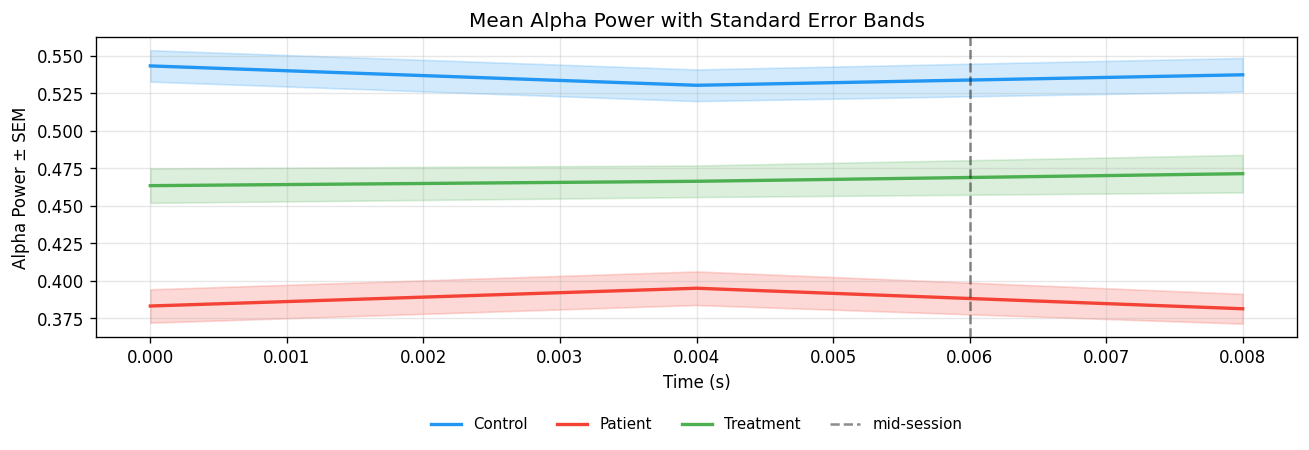
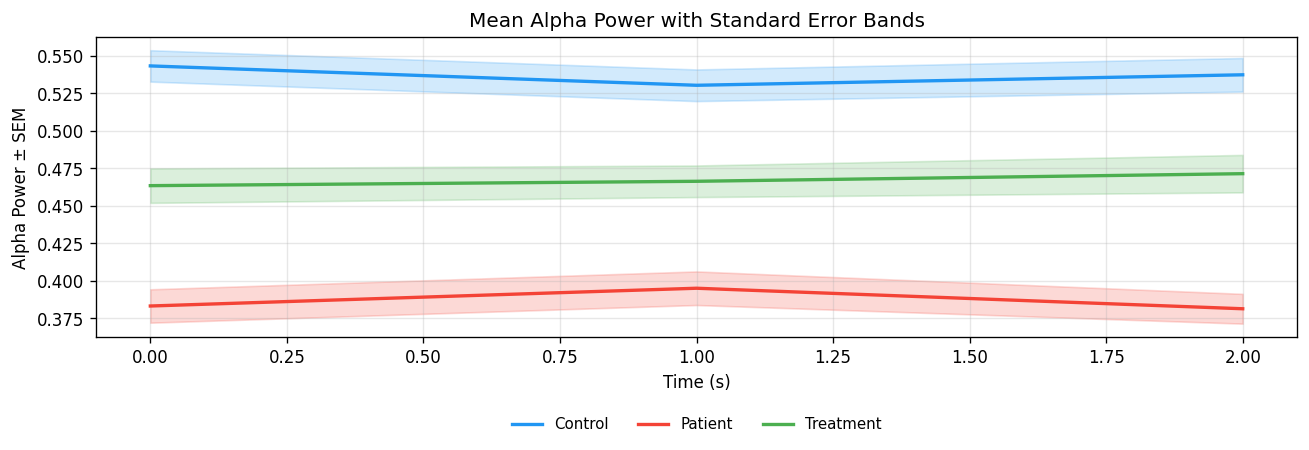
minor updates in the script

diff --git a/day_2/02_day2_study_guide.py b/day_2/02_day2_study_guide.py
@@ -1,11 +1,8 @@
 """
-================================================================================
-DAY 2 STUDY GUIDE  |  Python Basics: Plotting for Insights
-"Turning arrays of raw numbers into a visual story."
-================================================================================
+Python Basics: Plotting for Insights
+Turning arrays of raw numbers into a visual story
 
-Plots produced (saved to plots/)
-----------------------------------
+
   s01_single_timeseries.png       Line plot basics
   s02_multigroup_timeseries.png   Multiple lines on one axes
   s03_confidence_bands.png        fill_between for ±SEM bands
@@ -15,17 +12,14 @@ Plots produced (saved to plots/)
   s07_correlation_matrix.png      Annotated correlation matrix
   s08_publication_figure.png      Publication figure with MNE Delta Topomap
 
-Uses shared dataset from: ../day_1/data/
-Run : python 02_day2_study_guide.py
-================================================================================
 """
-
+# Load libraries
 import numpy as np
 import pickle, os
 import matplotlib
 matplotlib.use("Agg")               # non-interactive: saves files, no pop-up windows
 import matplotlib.pyplot as plt
-from matplotlib.colors import LinearSegmentedColormap, ListedColormap
+from matplotlib.colors import LinearSegmentedColormap
 import scipy.stats as stats
 import mne
 
@@ -44,23 +38,20 @@ EHINGER_COLORS = [
 cmap_becp = LinearSegmentedColormap.from_list("becp", EHINGER_COLORS, N=256)
 
 # Load data directly from day_1 shared data directory
-data_dir = os.path.join("..", "day_1", "data") if os.path.exists(os.path.join("..", "day_1", "data")) else "data"
-data = np.load(os.path.join(data_dir, "neural_data.npy"))
-with open(os.path.join(data_dir, "metadata.pkl"), "rb") as fh:
+data = np.load("neural_data.npy")
+with open("metadata.pkl", "rb") as fh:
     meta = pickle.load(fh)
 
 G, T, S, C, F = data.shape
 gnames  = meta["group_names"]
 fnames  = meta["feature_names"]
 chnames = meta["channel_names"]
-hz      = meta.get("sampling_hz", 250)
 
-t_axis  = np.arange(T) / hz        # time in seconds
 COLORS  = ["#2196F3", "#F44336", "#4CAF50"]   # blue · red · green
-DIV     = "─" * 60
+t_axis  = np.arange(T) 
 RNG     = np.random.default_rng(2026)
 
-# ── GLOBAL FIGURE CONFIGURATION DEFAULTS ─────────────────────────────────────
+# Style your plot theme
 def setup_publication_style():
     """
     Applies clean, publication-quality defaults across Matplotlib figures.
@@ -87,7 +78,7 @@ def setup_publication_style():
         "figure.titlesize"     : 14,                     # Main figure super-title font size
         "figure.titleweight"   : "bold",                 # Bold font weight for super-title
         "figure.dpi"           : 150,                    # Interactive display resolution (dots per inch)
-        "savefig.dpi"          : 150,                    # High-resolution export DPI for publication
+        "savefig.dpi"          : 300,                    # High-resolution export DPI for publication
         "savefig.bbox"         : "tight",                # Automatically strip white padding around figure
     })
 
@@ -100,15 +91,15 @@ def _mean_sem(g, fi):
     return mu, sem
 
 
-# ── SINGLE TIME-SERIES PLOTTING ───────────────────────────────────────────────
+# Single time series, weird x axis
 print("Single time-series  →  plots/s01_single_timeseries.png")
 
 fig, ax = plt.subplots(figsize=(10, 3.5))
 
 ts = data[0, :, 0, 9, 2]          # Control, subject 0, Cz, alpha
-ax.plot(t_axis, ts, color=COLORS[0], lw=1.5, label="Control · sub0 · Cz · alpha")
+ax.plot(ts, color=COLORS[0], lw=1.5, label="Control · sub0 · Cz · alpha")
 
-ax.set_xlabel("Time (s)", fontsize=11)
+ax.set_xlabel("Time ", fontsize=11)
 ax.set_ylabel("Power (μV²/Hz)", fontsize=11)
 ax.set_title("Alpha Power — Control Group, Subject 0, Channel Cz", fontsize=12)
 ax.legend()
@@ -116,8 +107,6 @@ ax.grid(True, alpha=0.3)
 fig.tight_layout()
 fig.savefig("plots/s01_single_timeseries.png", dpi=120)
 plt.close(fig)
-print("  Done.")
-
 
 # ── MULTI-GROUP TIME-SERIES OVERLAY ───────────────────────────────────────────
 print("Multi-group time-series  →  plots/s02_multigroup_timeseries.png")
@@ -125,7 +114,7 @@ print("Multi-group time-series  →  plots/s02_multigroup_timeseries.png")
 fig, ax = plt.subplots(figsize=(11, 4))
 for g in range(G):
     ts_g = data[g, :, :, :, 2].mean(axis=(1, 2))   # (T,)
-    ax.plot(t_axis, ts_g, color=COLORS[g], lw=2, label=gnames[g])
+    ax.plot(ts_g, color=COLORS[g], lw=2, label=gnames[g])
 
 ax.set_xlabel("Time (s)"); ax.set_ylabel("Mean Alpha Power")
 ax.set_title("Alpha Power Over Time — All Groups")
@@ -133,8 +122,6 @@ ax.legend(); ax.grid(True, alpha=0.3)
 fig.tight_layout()
 fig.savefig("plots/s02_multigroup_timeseries.png", dpi=120)
 plt.close(fig)
-print("  Done.")
-
 
 # ── CONFIDENCE BANDS (fill_between ±SEM) ─────────────────────────────────────
 print("Confidence bands  →  plots/s03_confidence_bands.png")
@@ -142,10 +129,9 @@ print("Confidence bands  →  plots/s03_confidence_bands.png")
 fig, ax = plt.subplots(figsize=(11, 4))
 for g in range(G):
     mu, sem = _mean_sem(g, fi=2)   # alpha feature
-    ax.plot(t_axis, mu, color=COLORS[g], lw=2, label=gnames[g])
+    ax.plot( mu, color=COLORS[g], lw=2, label=gnames[g])
     ax.fill_between(t_axis, mu - sem, mu + sem, color=COLORS[g], alpha=0.20)
 
-ax.axvline(x=T / (2*hz), ls="--", color="k", alpha=0.45, label="mid-session")
 ax.set_xlabel("Time (s)"); ax.set_ylabel("Alpha Power ± SEM")
 ax.set_title("Mean Alpha Power with Standard Error Bands")
 
@@ -155,8 +141,6 @@ ax.grid(True, alpha=0.3)
 fig.tight_layout()
 fig.savefig("plots/s03_confidence_bands.png", dpi=120, bbox_inches="tight")
 plt.close(fig)
-print("  Done.")
-
 
 # ── SUBPLOTS GRID ─────────────────────────────────────────────────────────────
 print("Subplots grid  →  plots/s04_subplots_2x3.png")
@@ -185,14 +169,12 @@ fig.suptitle("Feature Comparison: Control vs Patient", fontsize=13, fontweight="
 fig.tight_layout()
 fig.savefig("plots/s04_subplots_2x3.png", dpi=120, bbox_inches="tight")
 plt.close(fig)
-print("  Done.")
-
 
 # ── MNE SCALP TOPOGRAPHY ─────────────────────────────────────────────────────
 print("MNE Topoplot  →  plots/s05_mne_topoplot.png")
 
 # Construct MNE Info object with standard 10-20 montage
-info = mne.create_info(ch_names=chnames, sfreq=hz, ch_types="eeg")
+info = mne.create_info(ch_names=chnames, sfreq=125, ch_types="eeg")
 montage = mne.channels.make_standard_montage("standard_1020")
 info.set_montage(montage)
 
@@ -213,8 +195,6 @@ fig.suptitle("MNE Scalp Topography: Alpha Power Across Cohorts", fontsize=13, fo
 fig.tight_layout()
 fig.savefig("plots/s05_mne_topoplot.png", dpi=120, bbox_inches="tight")
 plt.close(fig)
-print("  Done.")
-
 
 # ── RAINCLOUD PLOTS ───────────────────────────────────────────────────────────
 print("Raincloud plots  →  plots/s06_raincloud_plots.png")
@@ -260,8 +240,6 @@ fig.suptitle("Raincloud Plots: Subject Distributions Across Frequency Bands",
 fig.tight_layout()
 fig.savefig("plots/s06_raincloud_plots.png", dpi=120, bbox_inches="tight")
 plt.close(fig)
-print("  Done.")
-
 
 # ── ANNOTATED CORRELATION MATRIX ─────────────────────────────────────────────
 print("Correlation matrix  →  plots/s07_correlation_matrix.png")
@@ -287,8 +265,6 @@ fig.suptitle("Feature Correlation Matrices — All Groups",
 fig.tight_layout()
 fig.savefig("plots/s07_correlation_matrix.png", dpi=120, bbox_inches="tight")
 plt.close(fig)
-print("  Done.")
-
 
 # ── JOURNAL-READY FIGURE WITH MNE DELTA TOPOMAP ───────────────────────────────
 print("Publication figure  →  plots/s08_publication_figure.png")
@@ -325,10 +301,3 @@ fig.tight_layout()
 fig.savefig("plots/s08_publication_figure.png", dpi=150, bbox_inches="tight")
 plt.close(fig)
 plt.rcParams.update(plt.rcParamsDefault)
-print("  Done.")
-
-print(f"\n{DIV}")
-print("  DAY 2 STUDY GUIDE  COMPLETE  ✓")
-print(f"  8 plots saved to  plots/")
-print(f"{DIV}")
-print("  Next → run  03_homework_10_problems.py")